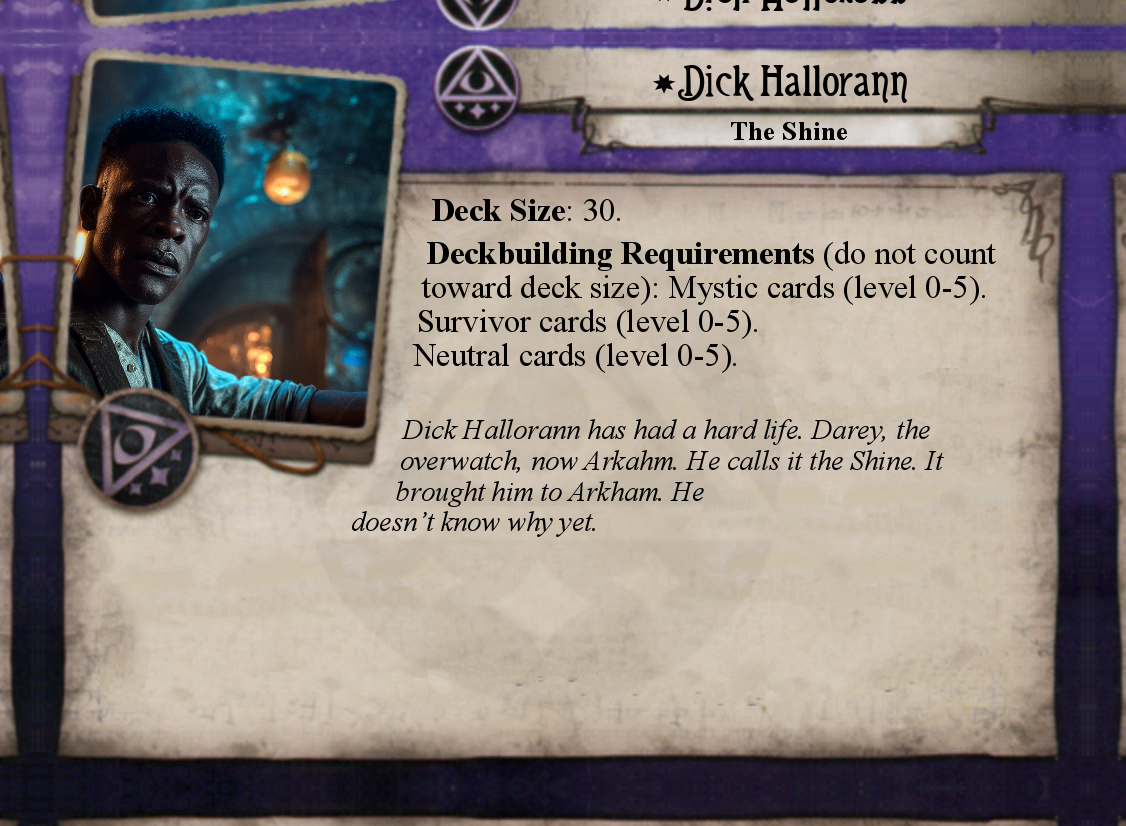
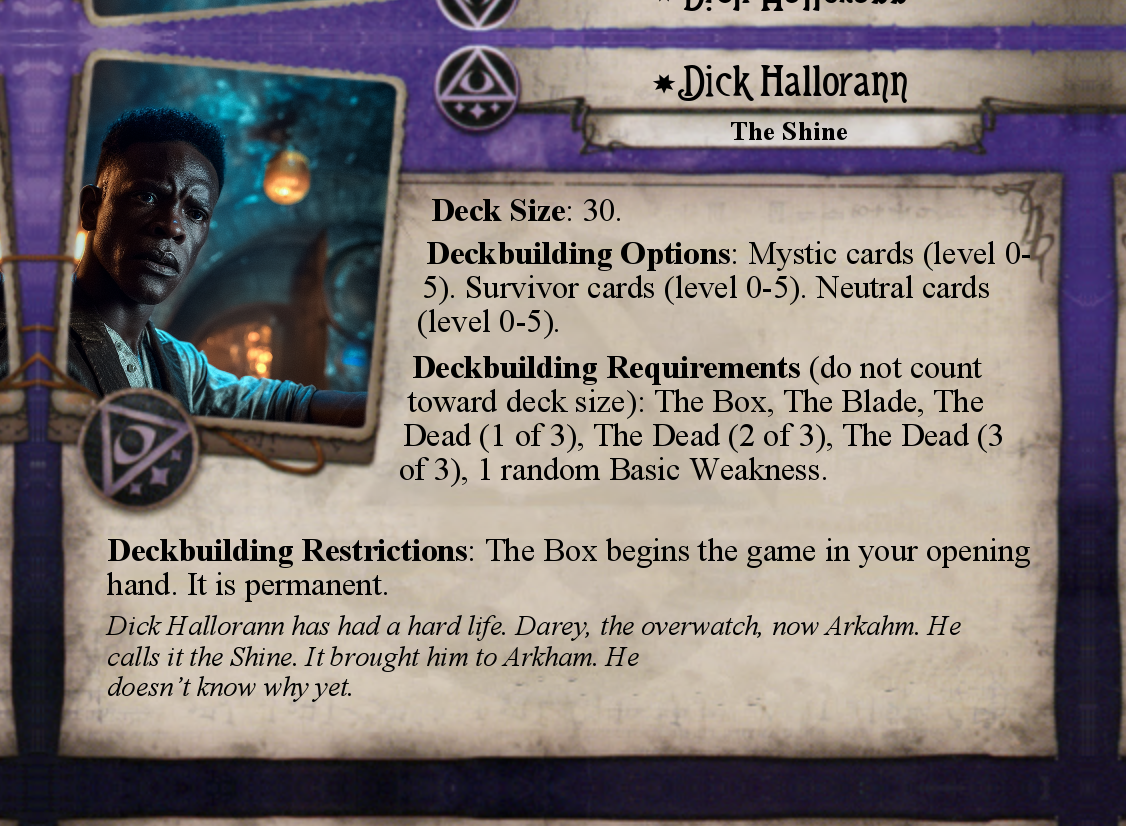
Dick Hallorann 001: Card-Data locked, exports renamed -- EON preserved

Changed region(s): [[0.0933, 0.3027, 0.9325, 0.8475]]

diff --git a/games/arkham-lcg/investigators/custom-1/Dick Hallorann/Dick-Hallorann-Card-Data.md b/games/arkham-lcg/investigators/custom-1/Dick Hallorann/Dick-Hallorann-Card-Data.md
@@ -54,6 +54,20 @@ Survivor cards (level 0-5).
 Neutral cards (level 0-5).
 ```
 
+### Deckbuilding Restrictions
+```
+The Box begins the game in your
+opening hand. It is permanent.
+```
+
+### Deckbuilding Requirements
+```
+(do not count toward deck size)
+The Box, The Blade, The Dead (1 of 3),
+The Dead (2 of 3), The Dead (3 of 3),
+1 random Basic Weakness.
+```
+
 ---
 
 ## Signature Cards (outside deck)
